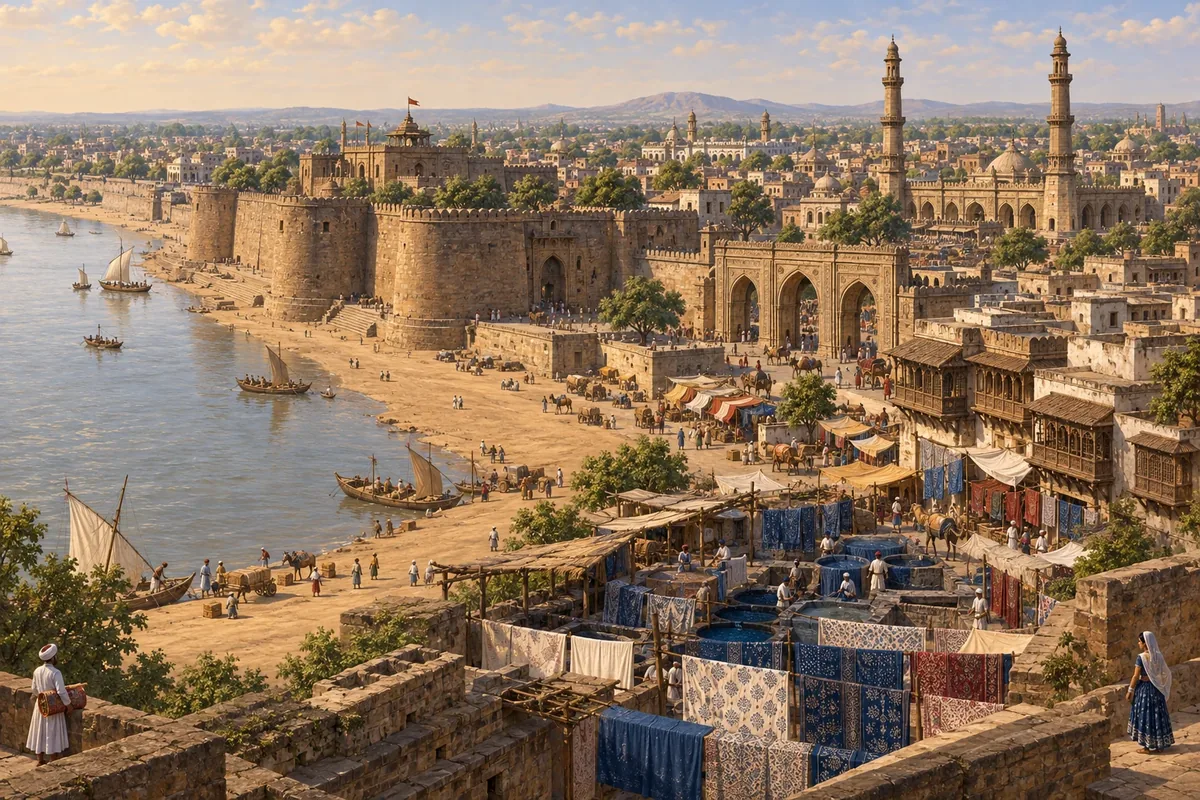
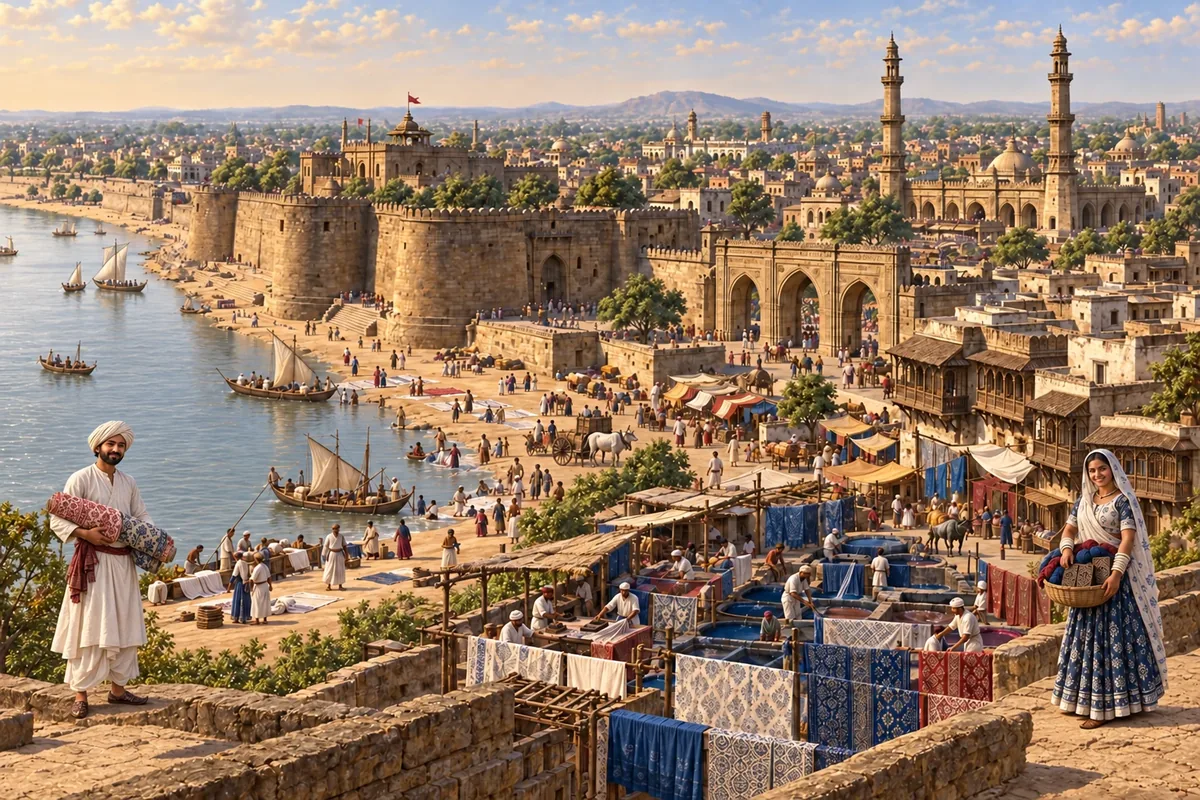
refactor(world-voyage): 그림 폴더를 게임 WebP 폴더 하나로 통일
원본 폴더(art-source)를 없앴다. ChatGPT 그림은 public/assets/cities/1520 에 도시 이름으로
바로 저장하고, 변환 도구 세 개는 그 폴더 안에서 규격(1200x800 WebP)이 아닌 것만
그 자리에서 맞춘다. 다시 그릴 목록(CITY-ART-다시그리기.md)은 요청서 옆으로 옮겼다.
새로 그린 아마다바드 그림도 넣었다.

diff --git a/learning/inquiry/age-of-exploration/tools/import_city_art.py b/learning/inquiry/age-of-exploration/tools/import_city_art.py
@@ -1,4 +1,8 @@
-"""art-source/city-art 의 도시 그림을 게임용 3:2 WebP로 바꿔 public/assets/cities/1520 에 넣는다."""
+"""도시 그림 폴더(public/assets/cities/1520) 하나만 쓴다.
+
+ChatGPT 그림을 이 폴더에 도시 이름(artKey)으로 바로 저장하면(보기: lisbon.webp, lisbon.png),
+이 도구가 그 자리에서 게임 규격(3:2, 1200x800 WebP)으로 맞춘다. 이미 규격인 그림은 건드리지 않는다.
+"""
 import json
 import sys
 from pathlib import Path
@@ -6,29 +10,26 @@ from pathlib import Path
 from PIL import Image
 
 APP = Path(__file__).resolve().parent.parent
-SOURCE = APP / 'art-source' / 'city-art'
-TARGET = APP / 'public' / 'assets' / 'cities' / '1520'
+FOLDER = APP / 'public' / 'assets' / 'cities' / '1520'
 SIZE = (1200, 800)
 
 cities = json.loads((APP / 'data' / 'catalog' / 'original-cities.json').read_text(encoding='utf-8'))
 names = {c['artKey']: c['name'] for c in cities if c.get('artKey') and not c.get('retired')}
 
-TARGET.mkdir(parents=True, exist_ok=True)
+FOLDER.mkdir(parents=True, exist_ok=True)
 unknown, done = [], []
-for src in sorted(SOURCE.iterdir()):
+for src in sorted(FOLDER.iterdir(), key=lambda p: (p.suffix.lower() == '.webp', p.name)):
     if src.suffix.lower() not in ('.png', '.webp', '.jpg', '.jpeg'):
         continue
     key = src.stem.lower()
     if key not in names:
         unknown.append(src.name)
         continue
-    out = TARGET / f'{key}.webp'
-    # 원본을 게임 폴더에 그대로 복사해 둔 경우(1536x1024)도 있으니, 시각만 보지 말고 규격도 본다.
-    if out.exists() and out.stat().st_mtime >= src.stat().st_mtime:
-        with Image.open(out) as current:
-            if current.size == SIZE:
-                continue
-    im = Image.open(src).convert('RGB')
+    out = FOLDER / f'{key}.webp'
+    with Image.open(src) as opened:
+        if src == out and opened.size == SIZE:
+            continue
+        im = opened.convert('RGB')
     w, h = im.size
     if w * SIZE[1] > h * SIZE[0]:
         nw = h * SIZE[0] // SIZE[1]
@@ -37,11 +38,16 @@ for src in sorted(SOURCE.iterdir()):
         nh = w * SIZE[1] // SIZE[0]
         im = im.crop((0, (h - nh) // 2, w, (h - nh) // 2 + nh))
     im.resize(SIZE, Image.LANCZOS).save(out, 'WEBP', quality=82, method=6)
+    if src != out:
+        src.unlink()
     done.append(f'{names[key]} ({out.stat().st_size // 1024}KB)')
 
-have = {p.stem for p in TARGET.glob('*.webp')}
-print(f'새로 넣음: {", ".join(done) or "없음"}')
+have = {p.stem for p in FOLDER.glob('*.webp')}
+print(f'규격으로 맞춤: {", ".join(done) or "없음"}')
 print(f'게임에 들어간 그림: {len(have)}/{len(names)}')
+missing = [names[k] for k in names if k not in have]
+if missing:
+    print(f'아직 없는 곳: {", ".join(missing)}')
 if unknown:
-    print(f'이름이 명세표와 맞지 않는 파일: {", ".join(unknown)}')
+    print(f'이름이 도시 목록과 맞지 않는 파일(지우거나 이름을 고칠 것): {", ".join(unknown)}')
     sys.exit(1)

diff --git a/learning/inquiry/age-of-exploration/tools/import_landmark_art.py b/learning/inquiry/age-of-exploration/tools/import_landmark_art.py
@@ -1,7 +1,8 @@
-"""art-source/landmark-art 의 명소 사진을 게임용 3:2 WebP로 바꿔 public/assets/landmarks 에 넣는다.
+"""명소·발견 지점·바다 동물 사진 폴더(public/assets/landmarks) 하나만 쓴다.
 
+사진을 이 폴더에 바로 넣으면(jpg·png·webp) 그 자리에서 게임 규격(3:2, 1200x800 WebP)으로 맞추고 원래 파일은 지운다.
 파일 이름은 city-landmarks.json 의 id 와 같아야 한다(보기: lm-belem-tower.jpg).
-사진은 마음대로 써도 되는 것만 쓴다. 출처와 이용 조건은 credits.json 에 적어 둔다.
+사진은 마음대로 써도 되는 것만 쓴다. 출처와 이용 조건은 data/catalog 의 credits 파일(city-photo-credits.json, photo-credits.json)에 적는다.
 """
 import json
 import sys
@@ -10,8 +11,8 @@ from pathlib import Path
 from PIL import Image, ImageFilter
 
 APP = Path(__file__).resolve().parent.parent
-SOURCE = APP / 'art-source' / 'landmark-art'
 TARGET = APP / 'public' / 'assets' / 'landmarks'
+SOURCE = TARGET
 SIZE = (1200, 800)
 
 landmarks = json.loads((APP / 'data' / 'catalog' / 'city-landmarks.json').read_text(encoding='utf-8'))
@@ -24,12 +25,8 @@ optional = {item['id']: item['name'] for item in discoveries}
 names_all = {**optional, **names}
 
 TARGET.mkdir(parents=True, exist_ok=True)
-if not SOURCE.exists():
-    print(f'사진 폴더가 없습니다: {SOURCE}')
-    sys.exit(1)
-
 unknown, done = [], []
-for src in sorted(SOURCE.iterdir()):
+for src in sorted(SOURCE.iterdir(), key=lambda p: (p.suffix.lower() == '.webp', p.name)):
     if src.suffix.lower() not in ('.png', '.webp', '.jpg', '.jpeg'):
         continue
     key = src.stem.lower()
@@ -37,9 +34,10 @@ for src in sorted(SOURCE.iterdir()):
         unknown.append(src.name)
         continue
     out = TARGET / f'{key}.webp'
-    if out.exists() and out.stat().st_mtime >= src.stat().st_mtime:
-        continue
-    im = Image.open(src).convert('RGB')
+    with Image.open(src) as opened:
+        if src == out and opened.size == SIZE:
+            continue
+        im = opened.convert('RGB')
     w, h = im.size
     if w / h < 1.2:
         # 탑이나 첨탑처럼 세로로 긴 사진은 잘라 내면 꼭대기나 밑동이 날아간다.
@@ -60,11 +58,13 @@ for src in sorted(SOURCE.iterdir()):
             im = im.crop((0, top, w, top + nh))
         canvas = im.resize(SIZE, Image.LANCZOS)
     canvas.save(out, 'WEBP', quality=82, method=6)
+    if src != out:
+        src.unlink()
     done.append(f'{names_all[key]} ({out.stat().st_size // 1024}KB)')
 
 have = {p.stem for p in TARGET.glob('*.webp')}
 missing = [names[k] for k in names if k not in have]
-print(f'새로 넣음: {", ".join(done) or "없음"}')
+print(f'규격으로 맞춤: {", ".join(done) or "없음"}')
 print(f'게임에 들어간 사진: {len(have)}/{len(names)}')
 if missing:
     print(f'아직 없는 곳 {len(missing)}: {", ".join(missing[:8])}{" …" if len(missing) > 8 else ""}')

diff --git a/learning/inquiry/age-of-exploration/tools/import_city_today.py b/learning/inquiry/age-of-exploration/tools/import_city_today.py
@@ -1,7 +1,8 @@
-"""art-source/city-today 의 도시 오늘날 사진을 게임용 3:2 WebP로 바꿔 public/assets/city-today 에 넣는다.
+"""도시 오늘날 사진 폴더(public/assets/city-today) 하나만 쓴다.
 
+사진을 이 폴더에 바로 넣으면(jpg·png·webp) 그 자리에서 게임 규격(3:2, 1200x800 WebP)으로 맞추고 원래 파일은 지운다.
 파일 이름은 original-cities.json 의 artKey 와 같아야 한다(보기: mexico-city.jpg).
-사진은 마음대로 써도 되는 것만 쓴다. 출처와 이용 조건은 credits.json 에 적어 둔다.
+사진은 마음대로 써도 되는 것만 쓴다. 출처와 이용 조건은 data/catalog 의 credits 파일(city-photo-credits.json, photo-credits.json)에 적는다.
 """
 import json
 import sys
@@ -10,8 +11,8 @@ from pathlib import Path
 from PIL import Image, ImageFilter
 
 APP = Path(__file__).resolve().parent.parent
-SOURCE = APP / 'art-source' / 'city-today'
 TARGET = APP / 'public' / 'assets' / 'city-today'
+SOURCE = TARGET
 SIZE = (1200, 800)
 
 cities = json.loads((APP / 'data' / 'catalog' / 'original-cities.json').read_text(encoding='utf-8'))
@@ -19,12 +20,8 @@ names = {c['artKey']: c['name'] for c in cities if c.get('artKey') and not c.get
 names_all = dict(names)
 
 TARGET.mkdir(parents=True, exist_ok=True)
-if not SOURCE.exists():
-    print(f'사진 폴더가 없습니다: {SOURCE}')
-    sys.exit(1)
-
 unknown, done = [], []
-for src in sorted(SOURCE.iterdir()):
+for src in sorted(SOURCE.iterdir(), key=lambda p: (p.suffix.lower() == '.webp', p.name)):
     if src.suffix.lower() not in ('.png', '.webp', '.jpg', '.jpeg'):
         continue
     key = src.stem.lower()
@@ -32,9 +29,10 @@ for src in sorted(SOURCE.iterdir()):
         unknown.append(src.name)
         continue
     out = TARGET / f'{key}.webp'
-    if out.exists() and out.stat().st_mtime >= src.stat().st_mtime:
-        continue
-    im = Image.open(src).convert('RGB')
+    with Image.open(src) as opened:
+        if src == out and opened.size == SIZE:
+            continue
+        im = opened.convert('RGB')
     w, h = im.size
     if w / h < 1.2:
         # 탑이나 첨탑처럼 세로로 긴 사진은 잘라 내면 꼭대기나 밑동이 날아간다.
@@ -55,11 +53,13 @@ for src in sorted(SOURCE.iterdir()):
             im = im.crop((0, top, w, top + nh))
         canvas = im.resize(SIZE, Image.LANCZOS)
     canvas.save(out, 'WEBP', quality=82, method=6)
+    if src != out:
+        src.unlink()
     done.append(f'{names_all[key]} ({out.stat().st_size // 1024}KB)')
 
 have = {p.stem for p in TARGET.glob('*.webp')}
 missing = [names[k] for k in names if k not in have]
-print(f'새로 넣음: {", ".join(done) or "없음"}')
+print(f'규격으로 맞춤: {", ".join(done) or "없음"}')
 print(f'게임에 들어간 사진: {len(have)}/{len(names)}')
 if missing:
     print(f'아직 없는 곳 {len(missing)}: {", ".join(missing[:8])}{" …" if len(missing) > 8 else ""}')

diff --git a/learning/inquiry/age-of-exploration/CITY-ART-다시그리기.md b/learning/inquiry/age-of-exploration/CITY-ART-다시그리기.md
@@ -1,0 +1,57 @@
+# 도시 그림 다시 그리기 목록 (2026-09-19 전체 224장 검수)
+
+그림은 `public/assets/cities/1520/` 에 도시 영어 이름으로 바로 저장한다. 크기는 `python tools/import_city_art.py` 가 맞춘다.
+
+눈대중으로 "자연스러운가"만 보았다(수치로 재지 않음). 새 도시 4곳(음반자콩고·베냉시티·하라르·센나르)은 아직 그림이 없다.
+
+## 1순위 — 바로 고칠 것
+
+- **메카 (mecca)**: 오른쪽 위 돌탑에 붉은 옷의 유럽 사람이 붉은 십자 깃발을 들고 서 있다. 성지에 기독교 깃발이 선 셈이라 가장 급하다. → 그 사람과 깃발만 지우기.
+- **앙카라 (ankara-angora)**: 오스만 성채 탑 위에 유럽 병사와 붉은 십자 깃발. → 지우기.
+
+## 2순위 — 통째로 다시 그리기 (12장 + 새 도시 4장)
+
+다시 그려서 넣음: 하르호린, 델리, 라호르, 아마다바드(2026-09-19).
+
+
+| 도시 | 까닭 |
+|---|---|
+| 톨레도 (toledo) | 앞쪽 대표 두 사람이 없음(대장장이·가게 여인뿐), 1540년대 알카사르가 크게 그려짐 |
+| 코르도바 (cordoba) | 두 사람이 앉아서 일하고 한 명은 반쯤 잘림, 메스키타 종탑이 오늘날 바로크 모양 |
+| 세비야 (seville) | 가장 큰 배가 포르투갈 십자 배, 히랄다 꼭대기가 1568년 뒤 모양 |
+| 밀라노 (milan) | 대성당 앞면이 1813년에 완성된 흰 대리석 모습(1520년엔 벽돌 미완성) |
+| 낭트 (nantes) | 배에 오늘날 스페인 국기, 두 사람이 아래 끝에 잘림 |
+| 소팔라 (sofala) | 앞줄에 유럽 상인이 끼어 있고 두 사람이 작음 |
+| 산티아고데쿠바 (santiago-de-cuba) | 앞쪽 여자가 유럽 여인, 남자는 북미 대평원식 깃털관, 포르투갈 배 |
+| 산후안 (san-juan) | 앞쪽 남자가 스페인 정착민, 포르투갈 배 |
+| 카사블랑카 (casablanca) | 1520년엔 폐허인데 멀쩡한 마을과 장터 |
+| 타가자 (taghaza) | 사하라 한가운데인데 바다와 포르투갈 배 |
+| 틀락스칼라 (tlaxcala) | 집이 모두 주황 기와의 지중해식이라 스페인 산골 같음 |
+| 서울 (seoul) | 광화문 바로 앞에 장터·초가(실제로는 육조 관청 거리, 장터는 종로), 여자 저고리가 오늘날 한복 모양(16세기는 엉덩이까지 오는 긴 저고리) |
+
+## 3순위 — 한 부분만 고치기 (ChatGPT에 그림을 올리고 그 부분만 지우거나 바꿔 달라고 하기)
+
+- 리우데자네이루: 코르코바두 봉우리 위 예수상 지우기
+- 멕시코시티: 텍스코코 호수 위 유럽 범선 두 척 지우기
+- 고아·말라카: 요새 망루의 스페인 X자 깃발을 포르투갈 깃발로, X자 돛 배 지우기
+- 말라가·베라크루스: 포르투갈 십자 배를 스페인 X자 배로
+
+### 유럽 배가 갈 수 없던 곳의 유럽 배 지우기
+학생이 "유럽 배가 중국 내륙까지 왔다"처럼 잘못 배울 수 있다.
+- 아프리카 내륙: 카노, 팀북투, 가오, 젠네, 아스완, 하르툼
+- 인도 내륙·벵골: 비자푸르, 함피, 골콘다, 콜카타
+- 동남아 내륙: 인와, 프놈펜
+- 중국·일본(1520년엔 유럽 배가 거의 안 옴): 항저우, 난징, 우한, 구이린, 쿤밍, 청두, 장예, 시안, 카이펑, 지난, 다롄, 푸저우, 나가사키, 사카이
+- 근동 내륙: 안타키아
+
+### 작고 멀어서 미뤄도 되는 것
+- 인도양·동남아·동아프리카 바다에 섞인 스페인 X자 배(1520년 인도양엔 스페인 배가 없음): 디우, 칸누르, 코치, 나콘시탐마랏, 후에, 하이퐁, 반다아체, 세랑, 수라바야, 반다르스리브가완, 마카오, 취안저우, 엘미나, 루안다, 모잠비크섬, 몸바사, 모가디슈, 킬와
+- 오스만 바다(흑해·레반트)의 포르투갈·스페인 배: 아조우, 시노프, 트라브존, 페오도시야, 베이루트, 바스라, 이스탄불
+- 유럽 내륙 강의 먼 범선: 프라하, 빈, 베오그라드, 부다페스트, 바르샤바, 모스크바, 키이우, 마그데부르크, 프랑크푸르트, 스트라스부르
+- 두 나라 배가 섞임(작음): 카디스, 칼리아리
+
+## 경계 — 한 번 더 볼 만함
+포르투(두 사람이 몸을 숙인 반신), 뉘른베르크(남자가 가판대 뒤), 무스카트(두 사람이 걸어가는 모습), 시라쿠사(대성당 앞면), 카이로(성채 위 둥근 지붕이 1848년 모스크 같음), 라사(사원 앞 넓은 광장), 광저우(먼 곳에 네모 건물), 호르무즈(포르투갈 큰 배가 가까이 크게).
+
+## 원인과 막을 길
+배 문제는 요청문 탓이다. 모든 요청문 앞에 붙는 공통 문장에 "포르투갈 배는 붉은 십자가, 스페인 배는 X자"를 넣어서, 내륙 도시까지 유럽 배가 그려졌다. 공통 문장에서 배 이야기를 빼고, 1520년에 유럽 배가 실제로 드나들던 항구의 요청문에만 따로 적는다. 나머지 도시는 "그림에 넣지 말 것"에 유럽 배·유럽 사람·십자 깃발을 넣는다.

diff --git a/learning/inquiry/age-of-exploration/CITY-ART-PROMPTS.md b/learning/inquiry/age-of-exploration/CITY-ART-PROMPTS.md
@@ -6,8 +6,8 @@
 
 1. 아래 요청문을 한 개씩 ChatGPT에 붙여 넣어 그림을 만든다. 한 대화에서 여러 장을 그리면 화풍이 맞춰진다.
 2. 그림에 나오면 안 되는 것이 들어갔으면 다시 그려 달라고 한다.
-3. 받은 그림을 WebP 형식으로 저장해 `E:/webprojects/class/learning/inquiry/age-of-exploration/art-source/city-art/` 폴더에 **파일 이름** 칸의 이름으로 저장한다.
-4. 다 모이지 않아도 된다. 그린 도시부터 게임에 넣을 수 있다. 생성한 그림은 처음부터 WebP로 맞춰 저장한다.
+3. 받은 그림을 게임 그림 폴더 `E:/webprojects/class/learning/inquiry/age-of-exploration/public/assets/cities/1520/` 에 **파일 이름** 칸의 이름으로 저장한다(같은 이름의 옛 그림을 덮어쓴다). 크기는 신경 쓰지 않아도 된다 — `python tools/import_city_art.py` 가 그 자리에서 1200×800 WebP로 맞춘다. 기준 그림으로 첨부할 것은 같은 폴더의 `lisbon.webp`다.
+4. 다 모이지 않아도 된다. 그린 도시부터 게임에 넣을 수 있다. 다시 그릴 도시 목록은 옆 파일 `CITY-ART-다시그리기.md`에 있다.
 
 모든 그림은 원작 게임처럼 앞쪽 양 끝에 그 지역 옷차림을 한 남녀 두 사람이 서 있다. 옷차림과 피부색으로 어느 문화권인지 알 수 있게 하려는 것이다. **리스본 그림(`lisbon.webp`)이 본보기다** — 두 사람이 앞쪽 양 끝에 서 있고, 비스듬한 옆모습이라 얼굴과 옷이 또렷하다. 두 사람이 너무 작아 뒤쪽 사람들과 섞이거나, 등만 보이거나, 한 명이 빠지면 다시 그린다.
 
